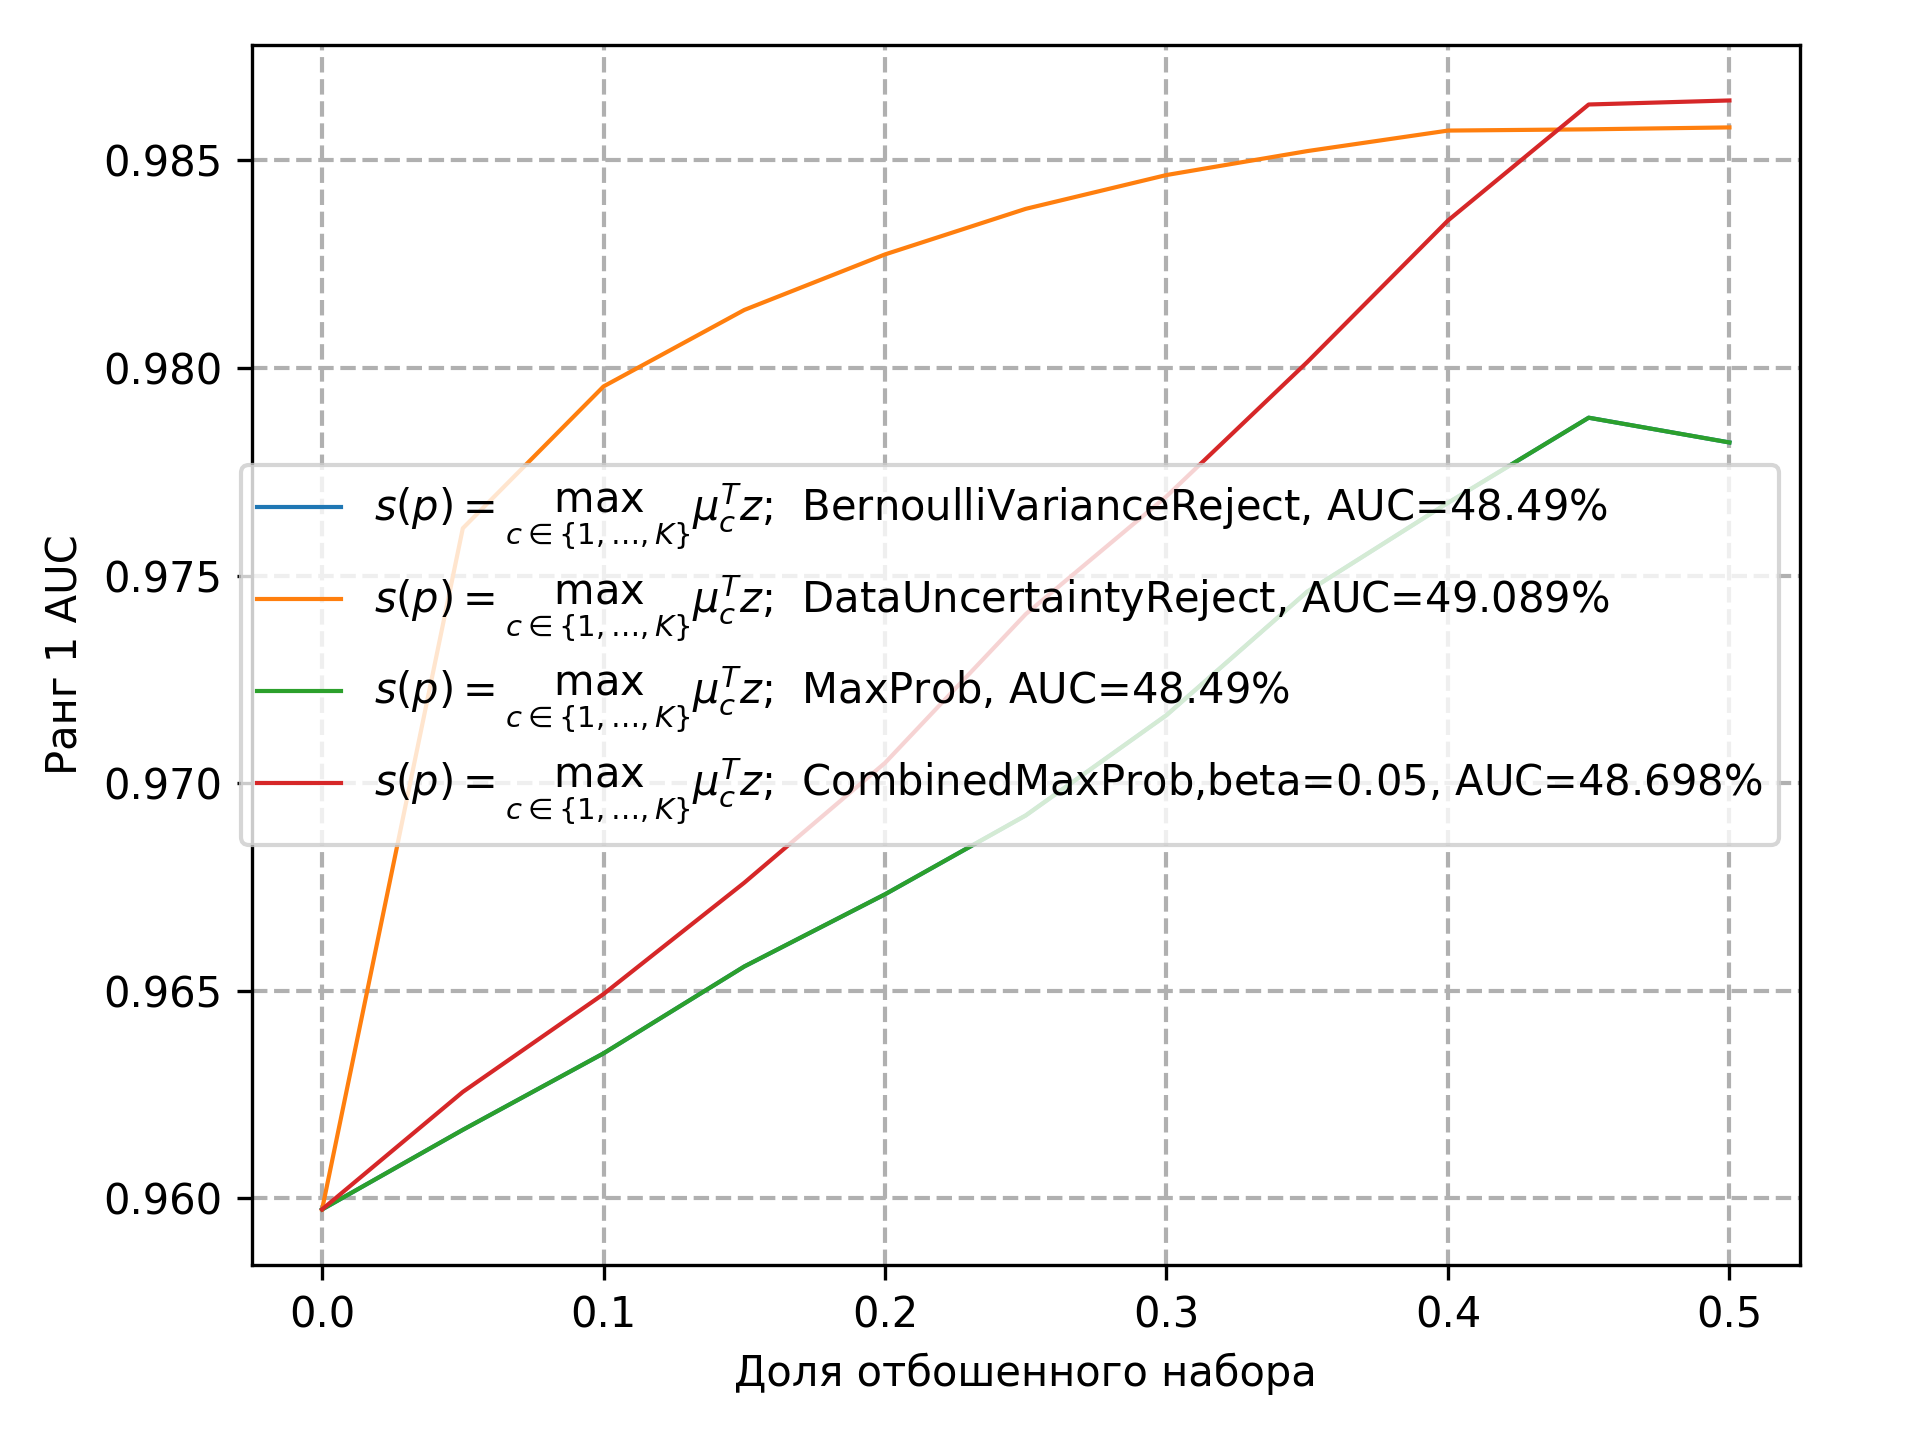
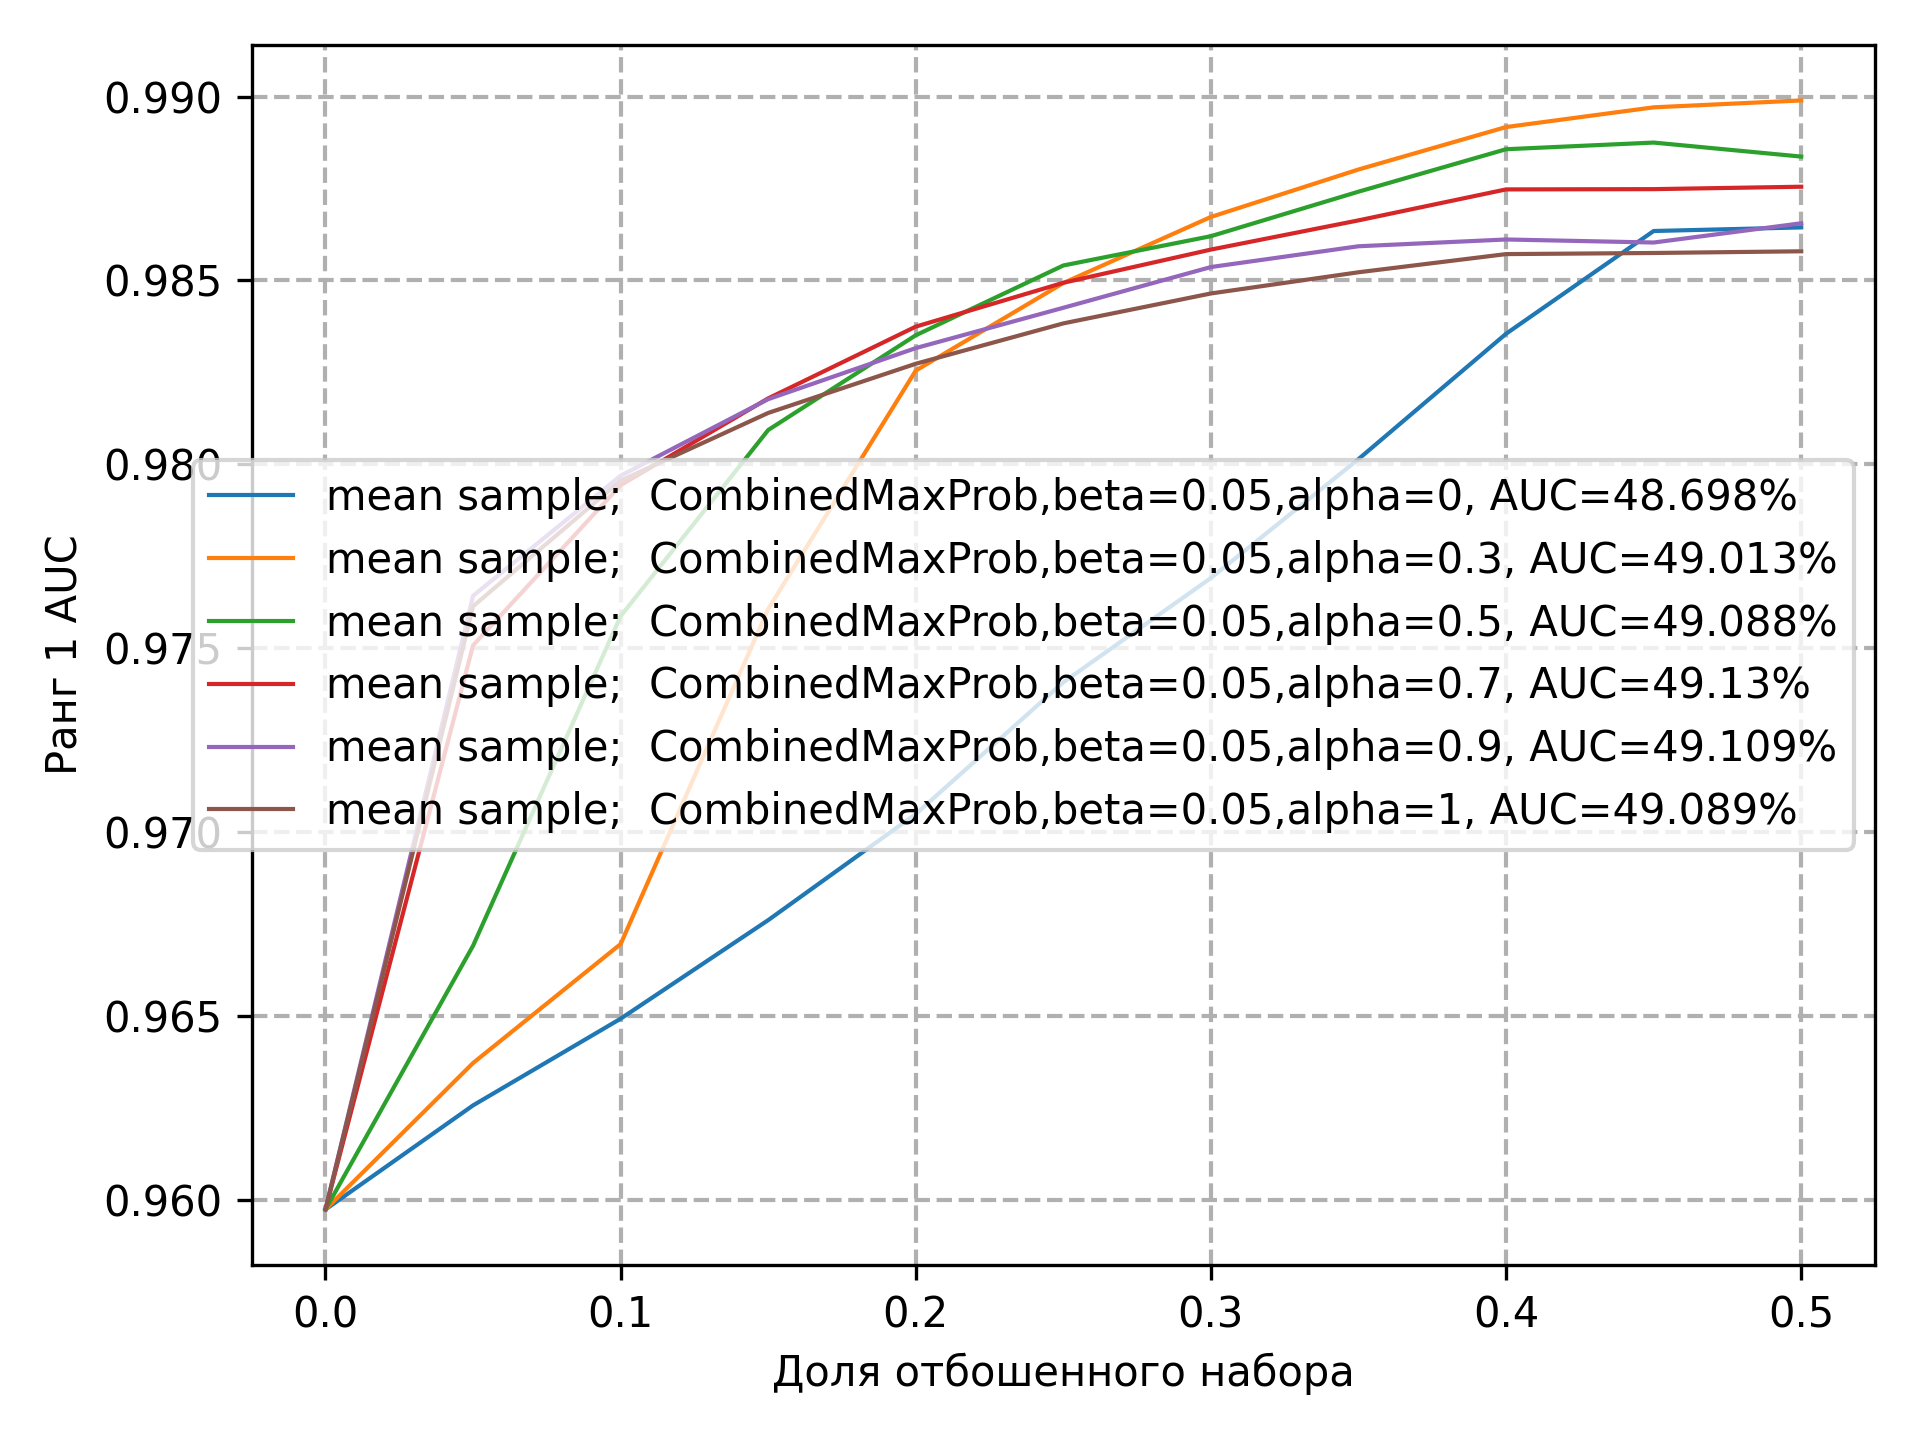
comb and data uncertainty

diff --git a/evaluation/uncertainty_metrics.py b/evaluation/uncertainty_metrics.py
@@ -94,7 +94,7 @@ class DataUncertaintyReject:
             self.metric_to_monitor,
             probe_ids,
             gallery_ids,
-            similarity,
+            np.mean(similarity, axis=1),
             probe_score,
             self.fractions,
         )
@@ -172,13 +172,16 @@ class CombinedMaxProb:
         kappa: float,
         beta: float,
         use_maxprob_variance: bool,
+        data_variance_weight: float,
     ) -> None:
         self.fractions = np.arange(fractions[0], fractions[1], step=fractions[2])
         self.metric_to_monitor = metric_to_monitor
         self.kappa = kappa
         self.beta = beta
         self.use_maxprob_variance = use_maxprob_variance
-
+        self.data_variance_weight = data_variance_weight
+        assert self.data_variance_weight >=0 and self.data_variance_weight<=1
+        self.mises_maxprob = MisesProb(kappa=self.kappa, beta=self.beta)
     def __call__(
         self,
         probe_ids: np.ndarray,
@@ -187,15 +190,19 @@ class CombinedMaxProb:
         similarity: np.ndarray,
         probe_score: np.ndarray,
     ) -> Any:
-        mises_maxprob = MisesProb(kappa=self.kappa, beta=self.beta)
+       
 
-        all_classes_log_prob = mises_maxprob.compute_all_class_log_probabilities(
-            similarity[np.newaxis, ...]
+        all_classes_log_prob = self.mises_maxprob.compute_all_class_log_probabilities(
+            similarity
         )
 
-        unc_metric_name = (self.__class__.__name__) + ",beta=" + str(self.beta)
+        unc_metric_name = (self.__class__.__name__) + ",beta=" + str(self.beta) + ",alpha=" + str(self.data_variance_weight)
 
-        unc_score = -np.max(all_classes_log_prob, axis=1)
+        unc_score = -np.mean(np.max(all_classes_log_prob, axis=-1), axis=-1)
+        data_uncertainty = (-probe_template_unc[:,0])
+        data_uncertainty = (data_uncertainty - np.min(data_uncertainty))/(np.max(data_uncertainty) - np.min(data_uncertainty))
+        unc_score = (unc_score - np.min(unc_score)) / (np.max(unc_score) - np.min(unc_score))
+        unc_score = unc_score*(1-self.data_variance_weight) + self.data_variance_weight*(data_uncertainty)
         # unc_metric_name = r"$m(p) = \max_{c\in {1,\dots,K+1}}p(c|z)$"
         unc_metric = get_reject_metrics(
             unc_metric_name,
@@ -236,7 +243,7 @@ class MeanDistanceReject:
             self.metric_to_monitor,
             probe_ids,
             gallery_ids,
-            similarity,
+            np.mean(similarity, axis=1),
             probe_score,
             self.fractions,
         )

diff --git a/evaluation/ijb_evals.py b/evaluation/ijb_evals.py
@@ -149,8 +149,9 @@ def create_open_set_ident_uncertainty_metric_table(
     pass
 
 
-def get_method_name(method, template_pooling, evaluation_function):
+def get_method_name(method, sampler, template_pooling, evaluation_function):
     method_name_parts = []
+    method_name_parts.append(f"sampler-{sampler.__class__.__name__}-num-samples-{sampler.num_samples}")
     method_name_parts.append(f"pooling-with-{template_pooling.__class__.__name__}")
     method_name_parts.append(f"use-det-score-{method.use_detector_score}")
     method_name_parts.append(f"eval-with-{evaluation_function.__class__.__name__}")
@@ -271,7 +272,7 @@ def main(cfg):
         if method_type == "open_set_identification":  # 1:N test
             # introduce method name that fully defines method features
 
-            method_name = get_method_name(method, template_pooling, evaluation_function)
+            method_name = get_method_name(method, sampler, template_pooling, evaluation_function)
             print(method_name)
             # run recognition and uncertainty metric computation
             (
@@ -397,28 +398,7 @@ def main(cfg):
             closed_set_ident_pretty_names,
         )
 
-    # fig_verif = plot_tar_far_scores(scores=verif_scores, names=verif_names)
-    # fig_verif.savefig(Path(cfg.exp_dir) / "tar_far_plot.png", dpi=300)
-    # print("Plot verif path:")
-    # print(str(Path(cfg.exp_dir) / "tar_far_plot.png"))
 
-    # # cmc plot
-
-    # fig_verif = plot_cmc_scores(
-    #     scores=closed_set_ident_scores, names=closed_set_ident_names
-    # )
-    # fig_verif.savefig(Path(cfg.exp_dir) / "cmc_plot.png", dpi=300)
-    # print("Plot closed ident path:")
-    # print(str(Path(cfg.exp_dir) / "cmc_plot.png"))
-
-    # # rejection plot
-
-    # fig_rejection = plot_rejection_scores(
-    #     scores=open_set_ident_rejection_scores, names=open_set_ident_rejection_names
-    # )
-    # fig_rejection.savefig(Path(cfg.exp_dir) / "rejection_plot.png", dpi=300)
-    # print("Plot open ident rejection path:")
-    # print(str(Path(cfg.exp_dir) / "rejection_plot.png"))
 
 
 if __name__ == "__main__":

diff --git a/evaluation/face_recognition_test.py b/evaluation/face_recognition_test.py
@@ -63,9 +63,6 @@ class Face_Fecognition_test:
 
         self.pool_templates(cache_dir="/app/cache/template_cache")
 
-        self.labels_sorted = (
-            True if self.evaluation_function.__class__.__name__ == "SVM" else False
-        )
 
     def pool_templates(self, cache_dir: str):
         cache_dir = Path(cache_dir)
@@ -254,7 +251,6 @@ class Face_Fecognition_test:
         # uncertainty metrics
         unc_metrics = {}
         for unc_metric in self.open_set_uncertainty_metrics:
-            assert self.labels_sorted is False
             unc_metrics.update(
                 unc_metric(
                     probe_ids=probe_unique_ids,
@@ -287,14 +283,13 @@ class Face_Fecognition_test:
                     metric(
                         probe_ids=probe_unique_ids,
                         gallery_ids=g2_unique_ids,
-                        similarity=similarity,
+                        similarity=np.mean(similarity, axis=1),
                         probe_score=probe_score,
                     )
                 )
             # uncertainty metrics
             g2_unc_metrics = {}
             for unc_metric in self.open_set_uncertainty_metrics:
-                assert self.labels_sorted is False
                 g2_unc_metrics.update(
                     unc_metric(
                         probe_ids=probe_unique_ids,

diff --git a/evaluation/confidence_functions.py b/evaluation/confidence_functions.py
@@ -62,17 +62,17 @@ class MisesProb(AbstractConfidence):
         uniform_log_prob = self.compute_uniform_log_probability(similarities)
 
         # compute gallery classes log prob
-        K = similarities.shape[1]
+        K = similarities.shape[-1]
         log_z_prob = self.compute_log_z_prob(similarities)
         gallery_log_probs = (
             self.log_c
             + self.kappa * similarities
             + np.log((1 - self.beta) / K)
-            - log_z_prob[:, np.newaxis]
+            - log_z_prob[..., np.newaxis]
         )
 
         return np.concatenate(
-            [gallery_log_probs, uniform_log_prob[:, np.newaxis]], axis=-1
+            [gallery_log_probs, uniform_log_prob[..., np.newaxis]], axis=-1
         )
 
     def compute_uniform_log_probability(self, similarities: np.ndarray):

diff --git a/evaluation/eval_functions/open_set_identification/cosine_sim.py b/evaluation/eval_functions/open_set_identification/cosine_sim.py
@@ -20,10 +20,6 @@ class CosineSim(Abstract1NEval):
         """
         probe_feats: n x num_z_samples x 512
         """
-        print(
-            "probe_feats: %s, gallery_feats: %s"
-            % (probe_feats.shape, gallery_feats.shape)
-        )
         compute_cosine_sim = CosineSimDistance()
         probe_feats = np.moveaxis(probe_feats, 2, 1)  # n x 512 x num_z_samples
         similarity = compute_cosine_sim(probe_feats, gallery_feats)

diff --git a/evaluation/metrics.py b/evaluation/metrics.py
@@ -169,7 +169,9 @@ class DetectionAndIdentificationRate:
         """
         gallery_ids_argsort = np.argsort(gallery_ids)
         gallery_ids = gallery_ids[gallery_ids_argsort]
-        # if not labels_sorted:
+
+        
+        # sort labels
         similarity = similarity[:, gallery_ids_argsort]
 
         is_seen = np.isin(probe_ids, gallery_ids)
